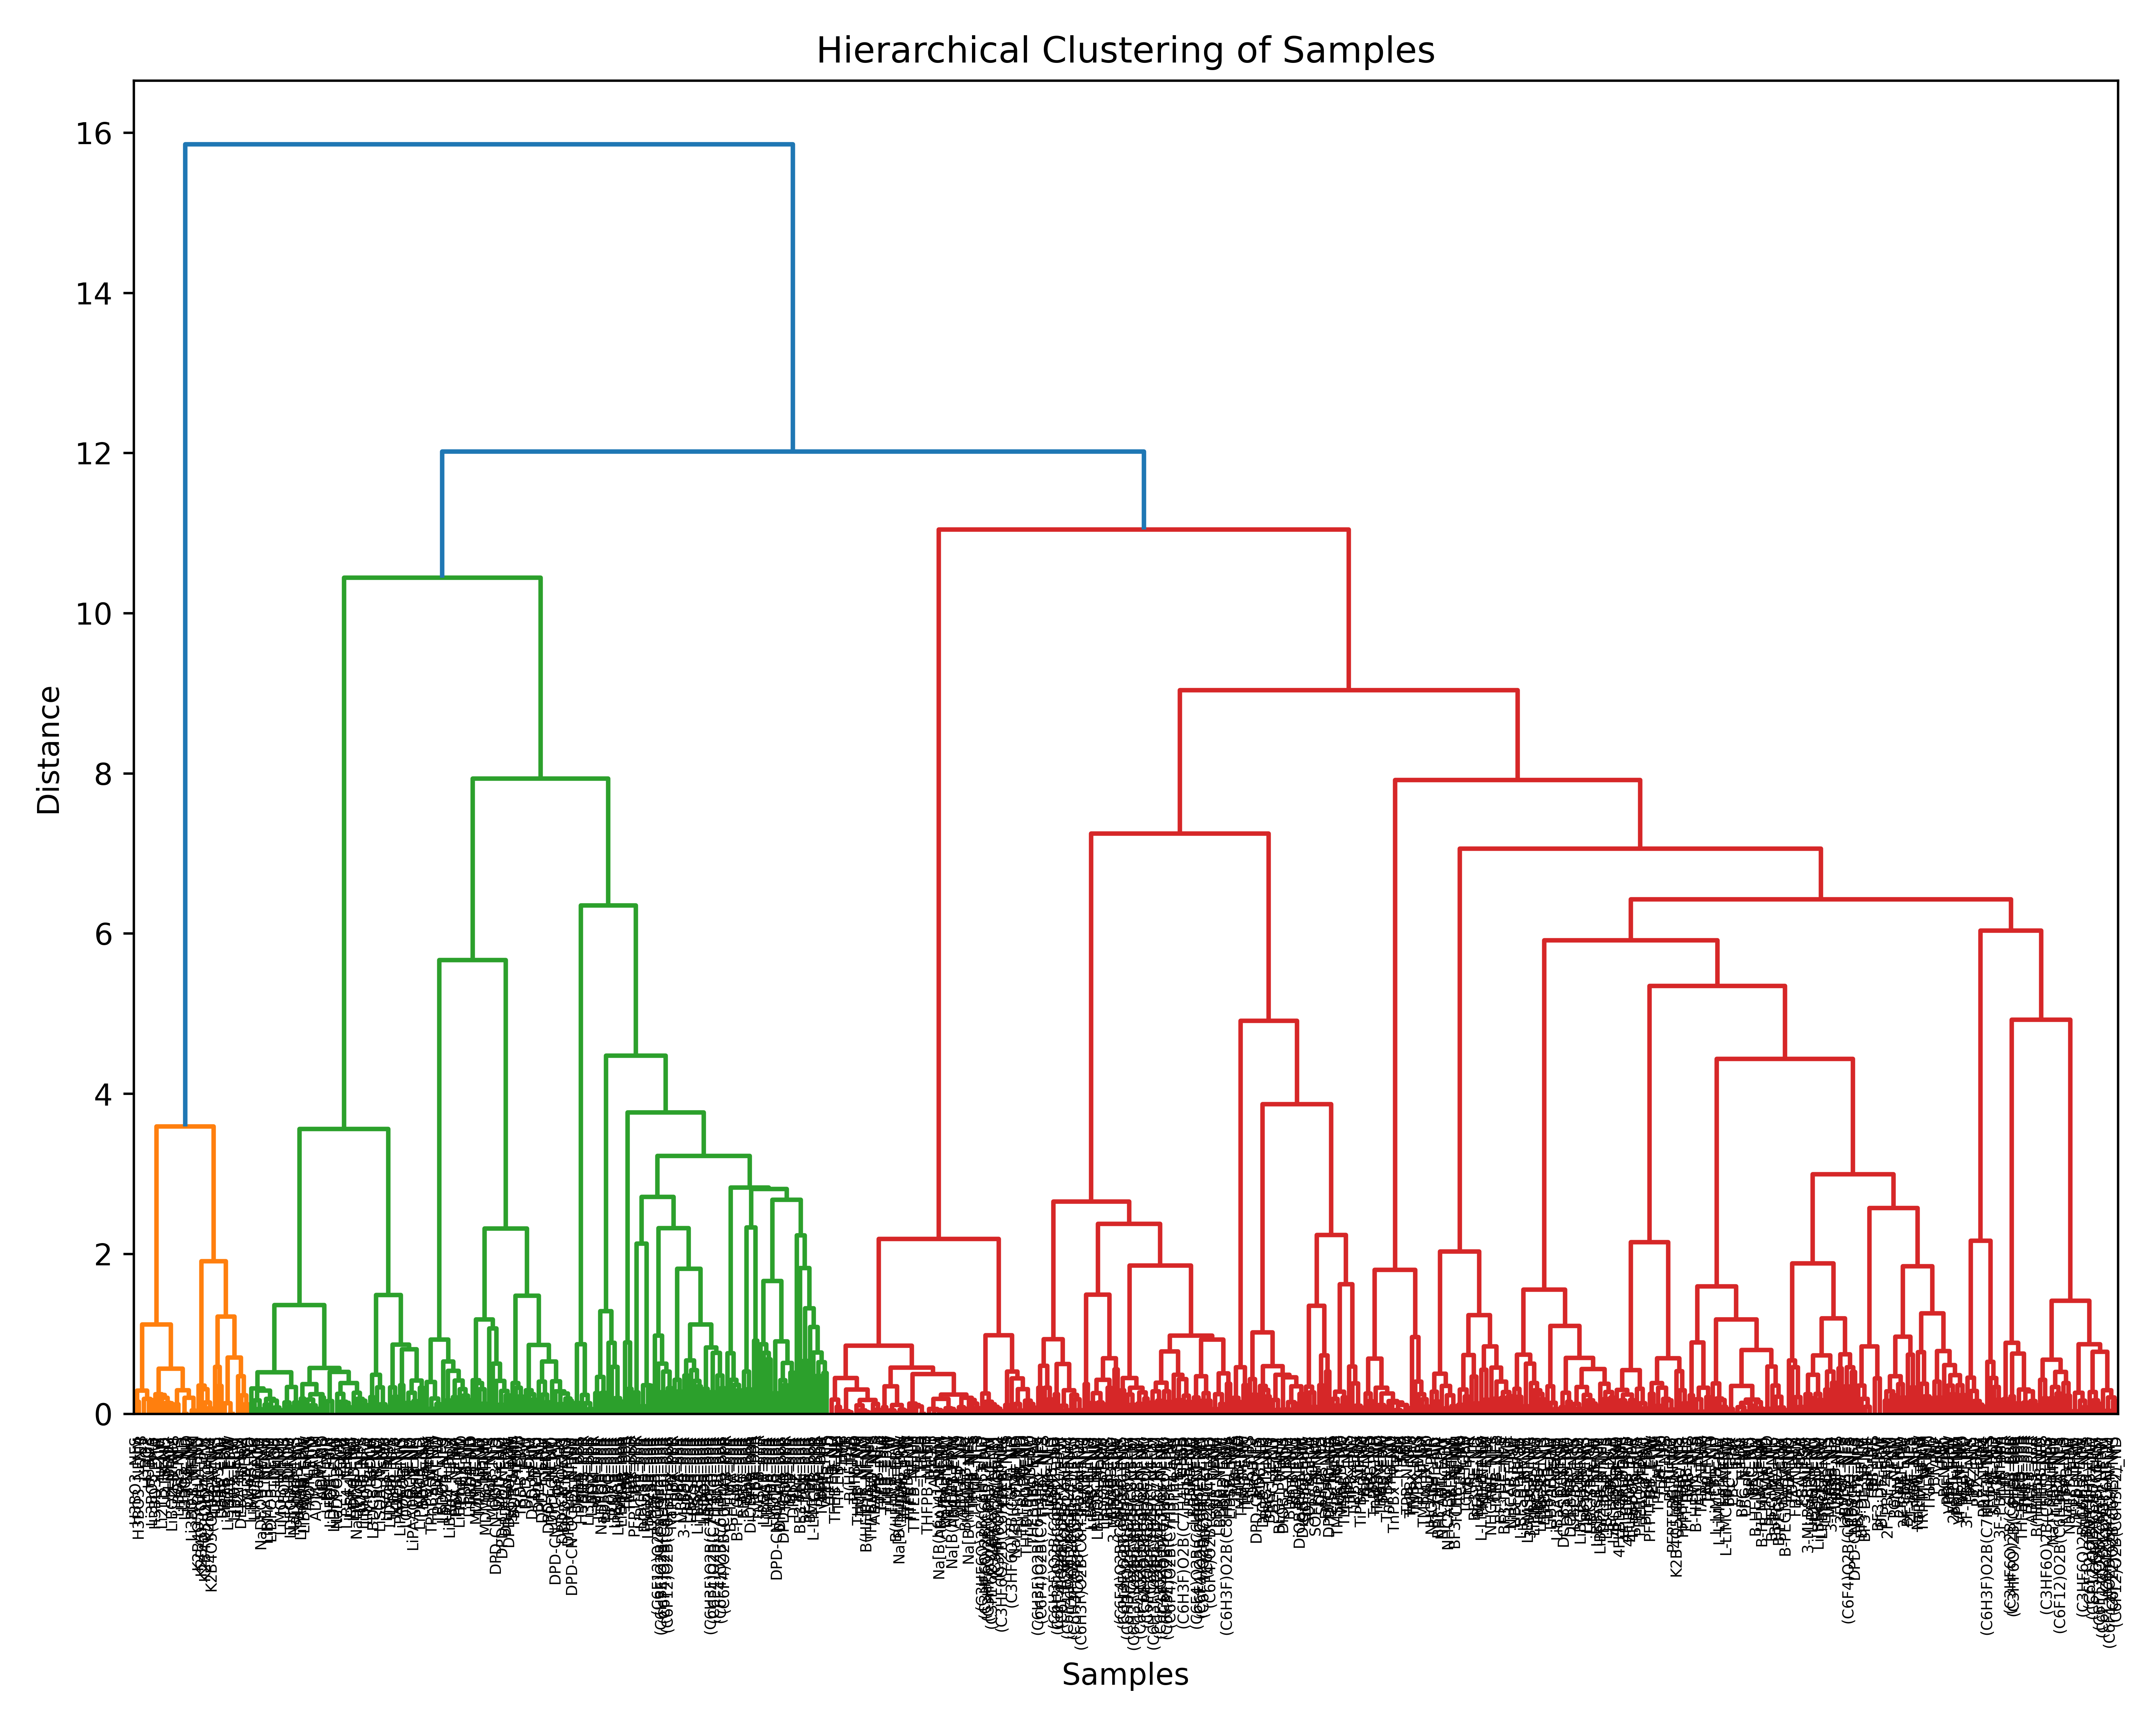
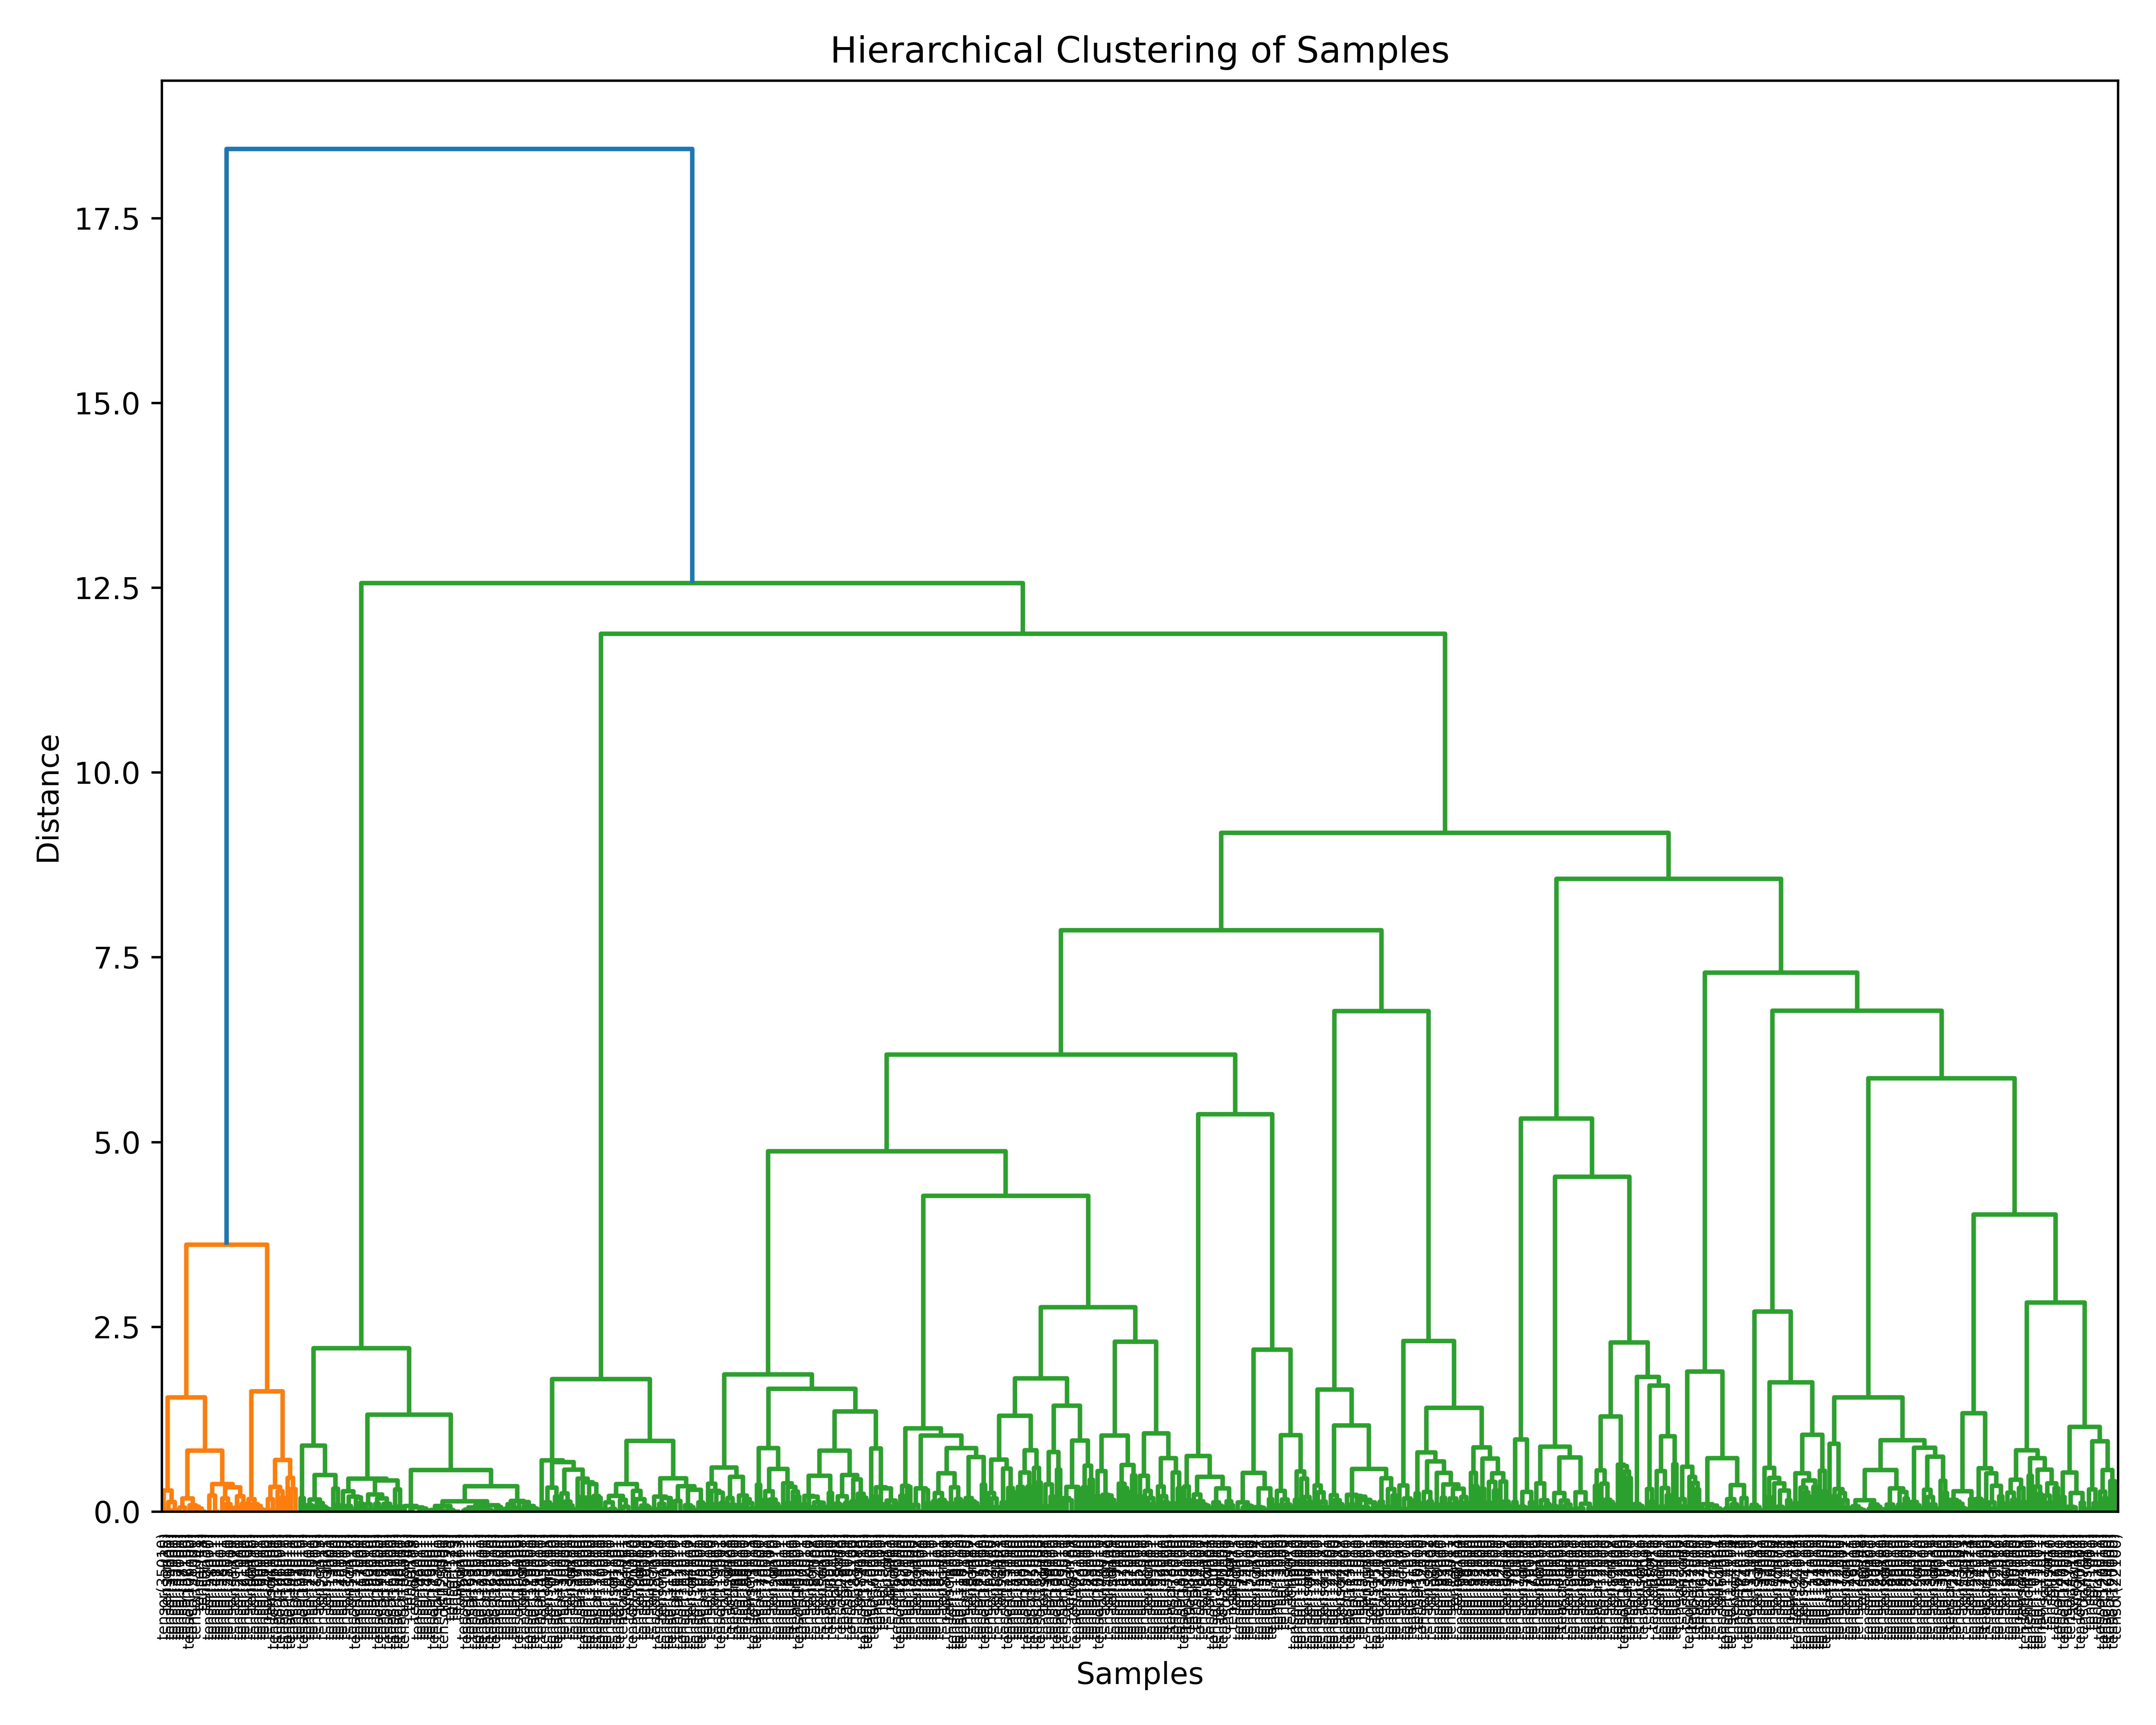
update PCL model

diff --git a/Contrastive_learning.py b/Contrastive_learning.py
@@ -19,6 +19,7 @@ import matplotlib.pyplot as plt
 from scipy.cluster.hierarchy import linkage, dendrogram, fcluster
 from scipy.spatial.distance import cdist
 from sklearn.model_selection import train_test_split
+from random import sample
 
 
 warnings.filterwarnings('ignore')
@@ -26,7 +27,7 @@ warnings.filterwarnings('ignore')
 # unsupervised learning configs
 parser = argparse.ArgumentParser(description="Train the model")
 parser.add_argument('--analysis', type=bool, default=False, help='Wether to print the summary of the dataset')
-parser.add_argument('--batch_size', type=int, default=64, help='Batch size for training')
+parser.add_argument('--batch_size', type=int, default=8192, help='Batch size for training')
 parser.add_argument('--num_classes', type=int, default=2, help='Number of classes')
 parser.add_argument('--learning_rate', type=float, default=0.0001, help='Learning rate')
 parser.add_argument('--hidden_channels', type=int, default=256, help='Number of hidden channels')
@@ -56,6 +57,12 @@ parser.add_argument('--test_size', type=float, default=0.2, help='test set size'
 # prototypes configs
 parser.add_argument('--max_cluster', type=int, default=10, help='max cluster number')
 parser.add_argument('--temperature', type=float, default=0.1, help='temperature coefficient for prototypes')
+parser.add_argument('--proto_epoch', type=int, default=500, help='Number of training epochs')
+parser.add_argument('--r', type=int, default=10000, help='number of randomly select neg prototypes')
+parser.add_argument('--proto_training_types', type=str, default='Prototype contrastive learning', help='training_types')
+parser.add_argument('--proto_models', type=str, default='GINE', help='model name for PCL')
+
+
 
 # main configs
 parser.add_argument('--task', type=str, default='train', help='task types')
@@ -140,7 +147,6 @@ def get_prototypes(model, pos_samples, unlabeled_samples):
     projection_head = ProjectionHead(in_dim=args.hidden_channels).to(device)
     pos_sample_loader = DataLoader(pos_samples, batch_size=args.batch_size, shuffle=False)
     unl_sample_loader = DataLoader(unlabeled_samples, batch_size=args.batch_size, shuffle=False)
-
     pos_graph_embeddings = []
     pos_additives_names = []
     unl_graph_embeddings = []
@@ -174,13 +180,13 @@ def get_prototypes(model, pos_samples, unlabeled_samples):
     # get the best cluster number of all positive samples
     best_cluster_num, labels = try_multiple_cluster_combinations(Z, pos_graph_embeddings, args)
     
-    # # plot hierarchical cluster dendrogram
-    # plot_hierarchical_cluster_dendrogram(Z, pos_additives_names)
-    # # plot UMAP cluster distribution
-    # plot_cluster_distribution_UMAP(best_cluster_num, labels, umap_embeddings)
-    # # show the consistency analysis results
-    # if args.task == 'eval':
-    #     show_gnn_fp_consistency_results(pos_additives_names, umap_embeddings)
+    # plot hierarchical cluster dendrogram
+    plot_hierarchical_cluster_dendrogram(Z, pos_additives_names)
+    # plot UMAP cluster distribution
+    plot_cluster_distribution_UMAP(best_cluster_num, labels, umap_embeddings)
+    # show the consistency analysis results
+    if args.task == 'eval':
+        show_gnn_fp_consistency_results(pos_additives_names, umap_embeddings)
 
     # get the positive samples prototypes
     proto_centroids = []
@@ -216,16 +222,24 @@ def get_prototypes(model, pos_samples, unlabeled_samples):
     densities = args.temperature * densities / densities.mean()
     densities = np.array(densities)
     samples_densities = np.array([densities[unique_labels == label].item() for label in all_prototypes])
-    molecules_id = pos_additives_names + unl_additives_names
+    
+    pos_additives_ids = [int(i.item()) for i in pos_additives_names]
+    unl_additives_ids = [int(i.item()) for i in unl_additives_names]
+    molecules_id = pos_additives_ids + unl_additives_ids
 
     prototypes_table = pd.DataFrame()
     prototypes_table['molecule_id'] = molecules_id
     prototypes_table['prototypes'] = all_prototypes
     prototypes_table['density'] = samples_densities
 
-    return prototypes_table
+    # get the prototype embeddings for each sample
+    prototypes_emb = proto_centroids[np.array(all_prototypes) - 1]
 
-    print(prototypes_table)
+    return prototypes_table, prototypes_emb
+
+
+def prototype_contrastive_training():
+    a=1
 
 
 def main():
@@ -241,13 +255,83 @@ def main():
 
     # get the prototypes table
     if args.task == 'train':
-        prototypes_table = get_prototypes(model, pos_train_samples, unl_train_samples) # get the prototypes during training process
+        prototypes_table, prototype_embeddings = get_prototypes(model, pos_train_samples, unl_train_samples) # get the prototypes during training process
     elif args.task == 'test':
-        get_prototypes(model, pos_test_samples, unl_test_samples) # get the prototypes during test process
+        prototypes_table, prototype_embeddings = get_prototypes(model, pos_test_samples, unl_test_samples) # get the prototypes during test process
     elif args.task == 'eval':
-        get_prototypes(model, positive_samples, unlabeled_samples) # get the prototypes of all positive samples to analysis the model performance
+        prototypes_table, prototype_embeddings = get_prototypes(model, positive_samples, unlabeled_samples) # get the prototypes of all positive samples to analysis the model performance
 
+    # train the prototype contrastive learning model
+    proto_train_samples = pos_train_samples + unl_train_samples
+    proto_test_samples = pos_test_samples + unl_test_samples
+    proto_train_loader = DataLoader(proto_train_samples, batch_size=args.batch_size, shuffle=True)
+    proto_test_loader = DataLoader(proto_test_samples, batch_size=args.batch_size, shuffle=False)
     
+    molecule_id = prototypes_table['molecule_id'].values.tolist()
+    prototypes = prototypes_table['prototypes'].values.tolist()
+    densities = prototypes_table['density'].values.tolist()
+    molecule_id = torch.tensor(molecule_id, dtype=torch.int)
+    prototype_embeddings = torch.tensor(prototype_embeddings, dtype=torch.float)
+    densities = torch.tensor(densities, dtype=torch.float)
+
+    encoder = GINE(num_node_features=proto_train_samples[0].n_node_features, num_edge_features=proto_train_samples[0].n_edge_features, 
+            hidden_channels=args.hidden_channels,
+            num_classes=args.num_classes, dropout=args.dropout, args=args).to(device)
+    projection = ProjectionHead(in_dim=args.hidden_channels).to(device)
+    
+    optimizer = torch.optim.Adam(model.parameters(), lr=args.learning_rate, weight_decay=5e-4)
+    criterion = torch.nn.CrossEntropyLoss()
+    encoder.train()
+    proto_train_loss = []
+    for epoch in tqdm(range(1, args.proto_epoch + 1), desc='Training the prototype contrastive learning model...'):
+        total_loss = 0
+        for i, data in enumerate(proto_train_loader):
+            molecule_id_list = molecule_id.tolist()
+            data_id_list = data.id.tolist()
+            # neg_proto_id_all = list(set(molecule_id_list) - set(data_id_list))
+            neg_proto_id_all = [x for x in molecule_id_list if x not in data_id_list]
+            # print(len(neg_proto_id_all), len(set(molecule_id_list)), len(set(data_id_list)))
+
+            data = data.to(device)
+            molecule_id = molecule_id.to(device)
+            prototype_embeddings = prototype_embeddings.to(device)
+            densities = densities.to(device)
+        
+            pos_mask = torch.isin(molecule_id, data.id)
+            pos_prototypes = prototype_embeddings[pos_mask]
+            
+            neg_proto_id = torch.tensor(sample(neg_proto_id_all, args.r), dtype=torch.int).to(device)
+            neg_mask = torch.isin(molecule_id, neg_proto_id)
+            # print(len(neg_proto_id), neg_mask.sum())
+            neg_prototypes = prototype_embeddings[neg_mask]
+
+            proto_selected = torch.cat([pos_prototypes, neg_prototypes], dim=0)
+
+            query = encoder(data.x, data.edge_index, data.edge_attr, data.batch)
+            query = projection(query)
+
+            logits_proto = torch.mm(query, proto_selected.t())
+            labels_proto = torch.linspace(0, query.size(0)-1, steps=query.size(0)).long().to(device)
+
+            # scaling temperatures for the selected prototypes
+            selected_mask = pos_mask | neg_mask
+            temp_proto = densities[selected_mask]
+            logits_proto /= temp_proto
+
+            loss = criterion(logits_proto, labels_proto)
+
+            optimizer.zero_grad()
+            loss.backward()
+            optimizer.step()
+            total_loss += loss.item()
+            iter_loss = loss / (pos_mask.sum() + neg_mask.sum())
+            # print(f'\t  Iteras: {i+1} | Loss: {iter_loss:.7f}')
+
+        avg_loss = total_loss / len(molecule_id.tolist())
+        proto_train_loss.append(avg_loss)
+        print(f"Epoch [{epoch}/{args.proto_epoch}]  Loss: {avg_loss}")
+    plot_train_loss(args.epoch, proto_train_loss, args.proto_models, args.proto_training_types)
+
 
 
 

diff --git a/model.py b/model.py
@@ -95,92 +95,6 @@ class ProjectionHead(nn.Module):
     def forward(self, x):
         return self.mlp(x)
 
-
-class PU_Classifier(torch.nn.Module):
-    def __init__(self, num_node_features, num_edge_features, hidden_channels, num_classes, dropout, args):
-        super(PU_Classifier, self).__init__()
-
-        nn1 = Sequential(Linear(num_node_features, hidden_channels), ReLU(), Linear(hidden_channels, hidden_channels))
-        self.conv1 = GINEConv(nn1, edge_dim=num_edge_features)
-        self.norm1 = GraphNorm(hidden_channels)
-
-        nn2 = Sequential(Linear(hidden_channels, hidden_channels), ReLU(), Linear(hidden_channels, hidden_channels))
-        self.conv2 = GINEConv(nn2, edge_dim=num_edge_features)
-        self.norm2 = GraphNorm(hidden_channels)
-
-        nn3 = Sequential(Linear(hidden_channels, hidden_channels), ReLU(), Linear(hidden_channels, hidden_channels))
-        self.conv3 = GINEConv(nn3, edge_dim=num_edge_features)
-        self.norm3 = GraphNorm(hidden_channels)
-
-        self.dropout = Dropout(dropout)
-        self.fc_out = Linear(hidden_channels, num_classes)
-        self.batch_norm = BatchNorm1d(hidden_channels)
-
-
-    def forward(self, x, edge_index, edge_attr, batch): 
-        # edge_attr = torch.zeros_like(edge_attr)
-
-        x = self.conv1(x, edge_index, edge_attr)
-        x = self.norm1(x)
-        x = F.relu(x)
-        x = self.dropout(x)
-
-        x = self.conv2(x, edge_index, edge_attr)
-        x = self.norm2(x)
-        x = F.relu(x)
-        x = self.dropout(x)
-
-        x = self.conv3(x, edge_index, edge_attr)
-        x = self.norm3(x)
-        x = F.relu(x)
-        x = self.dropout(x)
-
-        x = global_mean_pool(x, batch)
-
-        x = self.batch_norm(x)
-
-        logits = self.fc_out(x)
-        probs = torch.sigmoid(logits)
-
-        return probs.squeeze()
-    
-
-class PU_GCN(torch.nn.Module):
-    def __init__(self, num_node_features, num_edge_features, hidden_channels, num_classes, dropout, args):
-        super(PU_GCN, self).__init__()
-        self.conv1 = GCNConv(num_node_features, hidden_channels)
-        self.norm1 = GraphNorm(hidden_channels)
-
-        self.conv2 = GCNConv(hidden_channels, hidden_channels)
-        self.norm2 = GraphNorm(hidden_channels)
-
-        self.lin = Linear(hidden_channels, num_classes)
-        self.dropout = Dropout(dropout)
-
-        self.fc_out = Linear(hidden_channels, num_classes)
-        self.batch_norm = BatchNorm1d(hidden_channels)
-
-    def forward(self, x, edge_index, batch):
-        x = self.conv1(x, edge_index)
-        x = self.norm1(x)
-        x = F.relu(x)
-        x = self.dropout(x)
-
-        x = self.conv2(x, edge_index)
-        x = self.norm2(x)
-        x = F.relu(x)
-        x = self.dropout(x)
-
-        x = global_mean_pool(x, batch)
-
-        x = self.batch_norm(x)
-
-        logits = self.fc_out(x)
-        probs = torch.sigmoid(logits)
-
-        return probs.squeeze()
-
-
 class Cluster_GINE(torch.nn.Module):
     def __init__(self, num_node_features, num_edge_features, hidden_channels, num_classes, dropout, args):
         super(Cluster_GINE, self).__init__()

diff --git a/data_preprocess.py b/data_preprocess.py
@@ -46,33 +46,3 @@ with open('./data/all_data.pkl', 'wb') as file:
 #     pickle.dump(labeled_data, file)
 
 
-
-
-
-
-
-
-# preprocess the graph pairs for matric learning
-# with open('./data/all_data.pkl', 'wb') as file:
-#     all_data = pickle.load(dataset.data)
-    
-# graph_index_list = list(range(len(all_data)))
-# index_pairs = itertools.combinations(graph_index_list, 2)
-# n = len(all_data)
-# pairs_len = n * (n-1) // 2
-# all_pairs = []
-# split = 0
-# for pair, i in zip(index_pairs, tqdm(range(pairs_len))):
-#     if all_data[pair[0]].y == all_data[pair[1]].y == 1:
-#         all_pairs.append((pair[0], pair[1], 1))
-#     else:
-#         all_pairs.append((pair[0], pair[1], 0))
-    
-#     if len(all_pairs) >= 100000000:
-#         split += 1
-#         with open(f'/data/hwx/Boron/data_pairs_{split}.pkl', 'wb') as f:
-#             pickle.dump(all_pairs, f)
-        
-#         all_pairs = []
-
-

diff --git a/utils/graph_augmentation.py b/utils/graph_augmentation.py
@@ -42,7 +42,7 @@ class Graph_Augmentation_Helper():
 
             new_data = data.clone()
             new_data.x = shuffled_x
-            new_data.id = str(data.id) + '_NFS'
+            new_data.id = int(str(data.id) + '000')
             shuffled_samples.append(new_data)
 
         return shuffled_samples
@@ -60,7 +60,7 @@ class Graph_Augmentation_Helper():
 
             new_data = data.clone()
             new_data.x = x_noisy
-            new_data.id = str(data.id) + '_NFNM'
+            new_data.id = int(str(data.id) + '001')
             noise_masked_samples.append(new_data)
         
         return noise_masked_samples
@@ -94,7 +94,7 @@ class Graph_Augmentation_Helper():
             new_data.edge_index = edge_index
             new_data.edge_attr = edge_attr
             new_data.n_nodes = keep_nodes.size(0)
-            new_data.id = str(data.id) + '_ND'
+            new_data.id = int(str(data.id) + '010')
             dropped_samples.append(new_data)
         
         return dropped_samples
@@ -169,7 +169,7 @@ class Graph_Augmentation_Helper():
             new_data.edge_index = new_edge_index.edge_index
             if hasattr(data, 'edge_attr'):
                 new_data.edge_attr = torch.zeros((new_data.edge_index.size(1), data.edge_attr.size(1)))
-            new_data.id = str(data.id) + '_EPW'
+            new_data.id = int(str(data.id) + '011')
             
             edge_perturbation_weighted_samples.append(new_data)
 
@@ -244,7 +244,7 @@ class Graph_Augmentation_Helper():
             new_data.edge_index = new_edge_index
             new_data.n_edges = new_edge_index.size(1)
             new_data.edge_attr = data.edge_attr[:new_edge_index.size(1)]  # 直接截断（或重新初始化）
-            new_data.id = str(data.id) + '_PPR'
+            new_data.id = int(str(data.id) + '100')
 
             PPR_samples.append(new_data)
 

diff --git a/utils/data_loader_CL.py b/utils/data_loader_CL.py
@@ -23,14 +23,14 @@ class MoleculeDataset(Dataset):
         self.all_smiles = []
         self.id = []
         # load all molecules smiles
-        for smile, formula in tqdm(zip(self.reported_smiles, self.reported_formulas), desc='Loading all reported molecules'):
+        for smile, id in tqdm(zip(self.reported_smiles, list(range(len(self.reported_formulas)))), desc='Loading all reported molecules'):
             self.all_smiles.append(smile)
-            self.id.append(formula)
+            self.id.append(int(id))
 
         for cid in tqdm(self.cids, desc='Loading all molecules from searching space'):
             _, _, smile, _, _, _, _ = self.read_from_one_call(cid)
             self.all_smiles.append(smile)
-            self.id.append(cid)
+            self.id.append(int(cid))
 
         self.data = self.load_data()
         

diff --git a/utils/tools.py b/utils/tools.py
@@ -457,7 +457,7 @@ def try_multiple_cluster_combinations(Z, all_embeddings, args):
         cluster_labels = fcluster(Z, t=k, criterion='maxclust')
         try:
             score = silhouette_score(all_embeddings, cluster_labels, metric='euclidean')
-            print(f"k={k}, silhouette score={score:.4f}")
+            # print(f"k={k}, silhouette score={score:.4f}")
             if score > best_score:
                 best_score = score
                 best_k = k